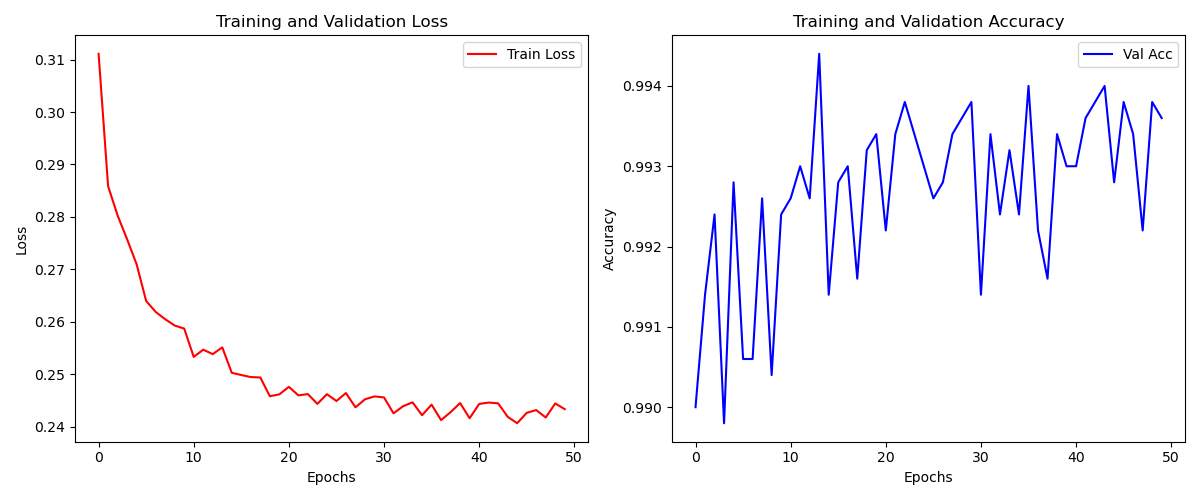
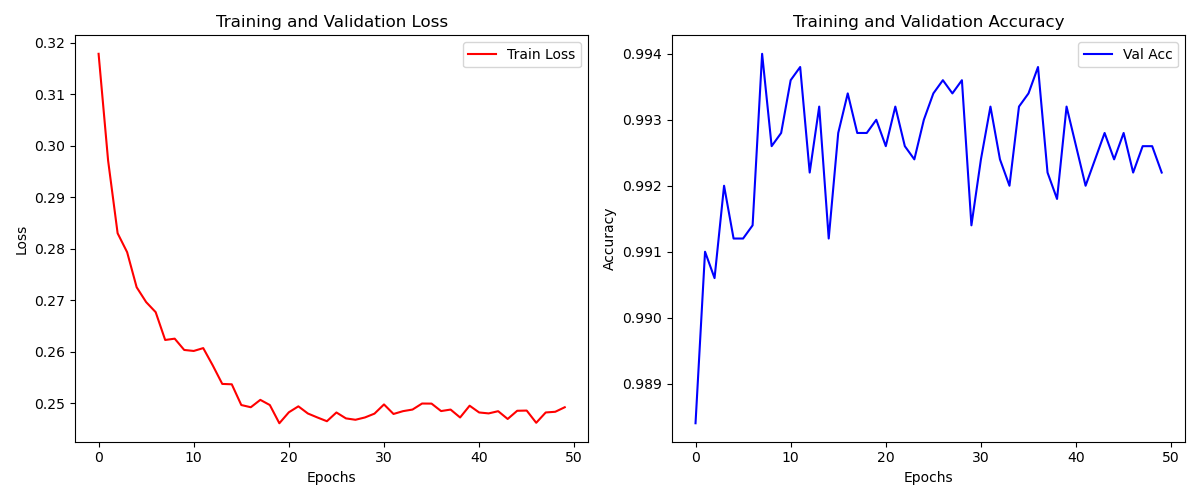
统一代码，最后提交

diff --git a/case-study.py b/case-study.py
@@ -1,0 +1,76 @@
+import torch
+import torch.nn.functional as F
+import os
+import shutil
+from others.dataloader import get_data_loaders
+from models.model import get_resnet50_classifier, VGG_ResNet_Fusion
+
+# --- 配置路径与模型 ---
+DATA_DIR = '/public/home/liuquanlong_gsc/Datasets/Dogvscat/'
+RESNET_PATH = './models/best-model/best-resnet-0.9934.pth'
+FUSION_PATH = './models/best-model/best-fusion-0.9944.pth'
+VGG_PATH = './models/best-model/best-vgg-0.9916.pth'
+SAVE_DIR = './case_study_results'
+DEVICE = torch.device("cuda" if torch.cuda.is_available() else "cpu")
+
+def run_case_study():
+    # 创建结果目录
+    for folder in ['fusion_win', 'resnet_win', 'both_wrong', 'fusion_confident_error']:
+        os.makedirs(os.path.join(SAVE_DIR, folder), exist_ok=True)
+
+    # 1. 加载模型
+    resnet = get_resnet50_classifier(num_classes=2, use_pretrained=False).to(DEVICE)
+    resnet.load_state_dict(torch.load(RESNET_PATH, map_location=DEVICE))
+    resnet.eval()
+
+    fusion = VGG_ResNet_Fusion(num_classes=2).to(DEVICE)
+    fusion.load_state_dict(torch.load(FUSION_PATH, map_location=DEVICE))
+    fusion.eval()
+
+    # 2. 使用验证集 (因为有 Ground Truth 才能判断对错)
+    _, val_loader, _ = get_data_loaders(DATA_DIR, batch_size=1)
+
+    print("开始扫描差异样本...")
+    
+    with torch.no_grad():
+        for inputs, labels, img_names in val_loader: # 注意 dataloader 需返回 img_names
+            inputs, labels = inputs.to(DEVICE), labels.to(DEVICE)
+            
+            # ResNet 预测
+            out_r = resnet(inputs)
+            prob_r = F.softmax(out_r, dim=1)
+            val_r, pred_r = torch.max(prob_r, 1)
+
+            # Fusion 预测
+            out_f = fusion(inputs)
+            prob_f = F.softmax(out_f, dim=1)
+            val_f, pred_f = torch.max(prob_f, 1)
+
+            img_name = img_names[0]
+            label = labels.item()
+            pr, pf = pred_r.item(), pred_f.item()
+            
+            # 找到原图路径 (假设在 val 目录下)
+            src_path = os.path.join(DATA_DIR, 'train', img_name)
+
+            # --- 分类逻辑 ---
+            # 1. Fusion 赢了 (ResNet 错, Fusion 对)
+            if pr != label and pf == label:
+                shutil.copy(src_path, os.path.join(SAVE_DIR, 'fusion_win', img_name))
+            
+            # 2. ResNet 赢了 (Fusion 错, ResNet 对)
+            elif pr == label and pf != label:
+                shutil.copy(src_path, os.path.join(SAVE_DIR, 'resnet_win', img_name))
+
+            # 3. 两个都错了
+            elif pr != label and pf != label:
+                shutil.copy(src_path, os.path.join(SAVE_DIR, 'both_wrong', img_name))
+            
+            # 4. 导致 Log Loss 爆炸的“过自信错误”
+            if pf != label and val_f > 0.95:
+                shutil.copy(src_path, os.path.join(SAVE_DIR, 'fusion_confident_error', img_name))
+
+    print(f"扫描完成！结果保存在 {SAVE_DIR}")
+
+if __name__ == '__main__':
+    run_case_study()

diff --git a/train.py b/train.py
@@ -13,10 +13,10 @@ from torch.optim import lr_scheduler # 引入调度器
 # 超参数
 DATA_DIR = '/public/home/liuquanlong_gsc/Datasets/Dogvscat/'
 BATCH_SIZE = 128
-EPOCHS = 100
+EPOCHS = 50
 LR = 1e-4
 
-PATIENCE = 10
+PATIENCE = 7
 counter = 0
 best_val_loss = float('inf') # 记录目前见过的最低验证损失
 DEVICE = torch.device("cuda" if torch.cuda.is_available() else "cpu")
@@ -37,6 +37,7 @@ def train_model():
 # 1. 动态获取所有需要更新（未冻结）的参数
     params_to_update = [p for p in model.parameters() if p.requires_grad]
     optimizer = optim.Adam(params_to_update, lr=LR)
+    #check out which parameters are being optimized
     # 健壮性检查：确保有参数可练
     if len(params_to_update) == 0:
         raise ValueError("错误：没有任何参数被解冻！请检查你的 feature_extract 逻辑。")
@@ -59,7 +60,7 @@ def train_model():
         model.train()
         running_loss, running_corrects = 0.0, 0
 
-        for inputs, labels in train_loader:
+        for inputs, labels,_ in train_loader:
             inputs, labels = inputs.to(DEVICE), labels.to(DEVICE)
             optimizer.zero_grad()
 
@@ -77,7 +78,7 @@ def train_model():
         val_loss, val_corrects = 0.0, 0
         
         with torch.no_grad(): # 验证时不计算梯度
-            for inputs, labels in val_loader:
+            for inputs, labels,_ in val_loader:
                 inputs, labels = inputs.to(DEVICE), labels.to(DEVICE)
                 outputs = model(inputs)
                 _, preds = torch.max(outputs, 1)

diff --git a/train-resnet.py b/train-resnet.py
@@ -9,10 +9,10 @@ from others.plot import plot_training_history
 # --- 实验配置（保持与 VGG 实验一致以保证公平对比） ---
 DATA_DIR = '/public/home/liuquanlong_gsc/Datasets/Dogvscat/'
 BATCH_SIZE = 128
-EPOCHS = 100
+EPOCHS = 50
 LR = 1e-4
 DEVICE = torch.device("cuda" if torch.cuda.is_available() else "cpu")
-PATIENCE = 10
+PATIENCE = 15
 counter = 0
 best_val_loss = float('inf') # 记录目前见过的最低验证损失
 
@@ -43,7 +43,7 @@ def train_resnet_baseline():
         # 训练循环
         model.train()
         running_loss, running_acc = 0.0, 0
-        for inputs, labels in train_loader:
+        for inputs, labels,_ in train_loader:
             inputs, labels = inputs.to(DEVICE), labels.to(DEVICE)
             optimizer.zero_grad()
             outputs = model(inputs)
@@ -59,7 +59,7 @@ def train_resnet_baseline():
         model.eval()
         val_l, val_a = 0.0, 0
         with torch.no_grad():
-            for inputs, labels in val_loader:
+            for inputs, labels,_ in val_loader:
                 inputs, labels = inputs.to(DEVICE), labels.to(DEVICE)
                 outputs = model(inputs)
                 _, preds = torch.max(outputs, 1)

diff --git a/train-fusion.py b/train-fusion.py
@@ -13,7 +13,7 @@ VGG_BEST = '.models/best-model/best-vgg-0.9916.pth'
 
 # --- 超参数配置 ---
 DATA_DIR = '/public/home/liuquanlong_gsc/Datasets/Dogvscat/'
-BATCH_SIZE = 128  # 融合模型较大，建议调小 Batch 避免 OOM
+BATCH_SIZE = 32  # 融合模型较大，建议调小 Batch 避免 OOM
 EPOCHS = 50
 LR = 1e-4   # 分类头的学习率
 LR_HEAD = 1e-4
@@ -45,7 +45,7 @@ def train_fusion():
         # --- 训练阶段 ---
         model.train()
         running_loss, running_corrects = 0.0, 0
-        for inputs, labels in train_loader:
+        for inputs, labels,_ in train_loader:
             inputs, labels = inputs.to(DEVICE), labels.to(DEVICE)
             optimizer.zero_grad()
             outputs = model(inputs)
@@ -61,7 +61,7 @@ def train_fusion():
         model.eval()
         val_loss, val_corrects = 0.0, 0
         with torch.no_grad():
-            for inputs, labels in val_loader:
+            for inputs, labels,_ in val_loader:
                 inputs, labels = inputs.to(DEVICE), labels.to(DEVICE)
                 outputs = model(inputs)
                 loss = criterion(outputs, labels)

diff --git a/others/dataloader.py b/others/dataloader.py
@@ -39,7 +39,7 @@ class CatDogDataset(Dataset):
             # train 文件夹解析文件名获取标签
             # cat.0.jpg -> 0 (Cat), dog.0.jpg -> 1 (Dog)
             label = 1 if 'dog' in img_name.lower() else 0
-            return image, label
+            return image, label, img_name
 
 
 def get_data_loaders(data_dir, batch_size=64,val_split=0.2):
